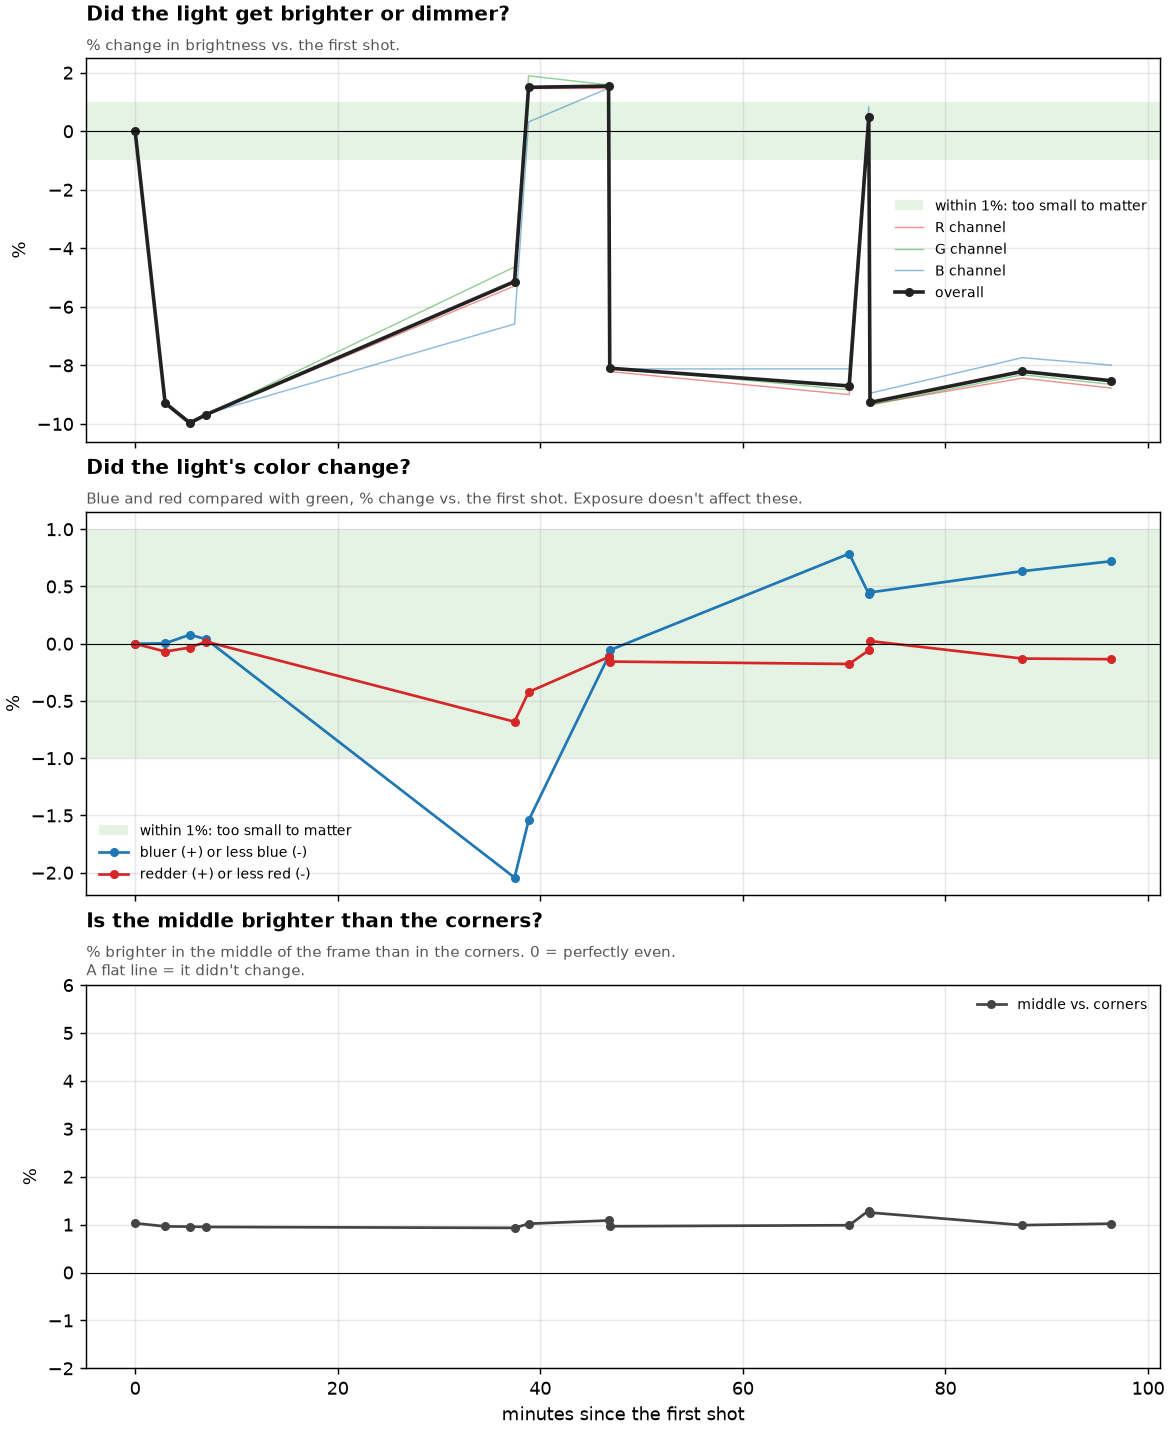
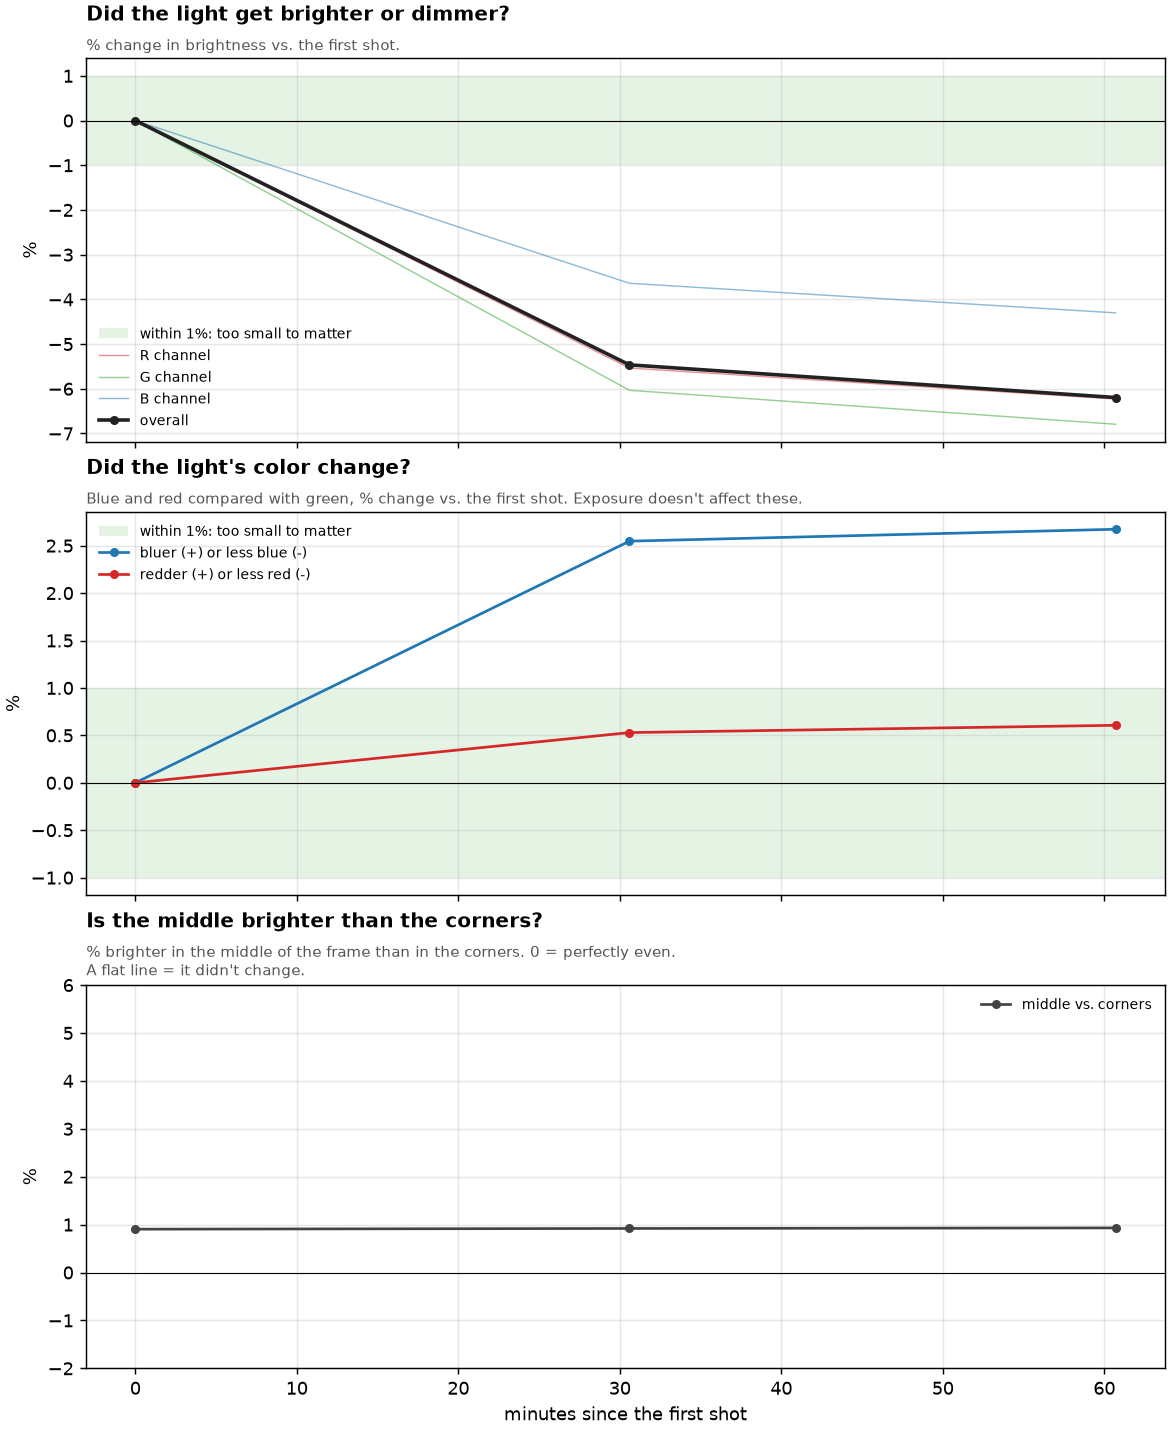
README: use the last-attempt warm-up session as the only example chart

diff --git a/README.md b/README.md
@@ -2,7 +2,7 @@
 
 A small toolkit that tells you if the light you scan film with is any good, using nothing but photos of it taken with your own camera.
 
-![Brightness, color and evenness of a light over 96 minutes](docs/over_time.png)
+![Brightness, color and evenness of a light over its first hour](docs/over_time.png)
 
 ## The idea, in plain words
 
@@ -63,23 +63,23 @@ Every run gets its own folder in `light_drift_results/` named after the date and
 
 ## What you get back
 
-A `report.txt` written in plain English, with the short answer at the top. Here's a real one, from a light tested with its charger in the mix:
+A `report.txt` written in plain English, with the short answer at the top. Here's a real one: three shots of a light, right after switching it on, then 30 minutes later, then an hour later.
 
 ```
 THE SHORT ANSWER
-  Brightness        CHANGED   Jumpy: it went up and down 6 times, between -10.0% and +1.5%.
-                              over_time.png shows when.
-  Color             CHANGED   At most 2.0% less blue than the first shot.
-  Evenness          OK        The middle is 1% brighter than the corners, and that didn't change.
+  Brightness        CHANGED   Got 5% dimmer by minute 31, then held steady (ended at -6.2%).
+  Color             CHANGED   At most 2.7% bluer than the first shot.
+  Evenness          OK        The middle and the corners are within 1% of each other, and that
+                              didn't change.
   Same settings     OK        Same shutter speed, aperture and ISO in every shot.
   Blown out         OK        Nothing blown out.
 
-  Bottom line: The light's brightness jumps around. Check what happened at those times (switched off
-  and on? charger plugged in?) in over_time.png. Its color shifts too, enough to tint scans
-  slightly.
+  Bottom line: Let the light warm up before scanning. It had settled by minute 31, the first shot
+  after the start, so it may need less. Shoot every minute or two at the start to find out. Its
+  color shifts too, enough to tint scans slightly.
 ```
 
-In plain words: the evenness was rock steady and the color only moved about 2%, but the brightness kept jumping by about 10%. That's enough to make two scans from the same roll look different. The chart at the top of this page is from that same session.
+In plain words: this light is perfectly even, but it's a bit like a car on a cold morning. For the first half hour it gets about 5% dimmer and a little bluer, then it settles down. So: switch it on, wait, then scan. The chart at the top of this page is from that same session.
 
 You also get charts:
 
@@ -91,8 +91,6 @@ You also get charts:
 | `color_shift.png` | First shot vs. last shot: where the color changed |
 | `previews.png` | Every shot, with the differences cranked up so you can see them |
 | `results.csv` | All the numbers, for your own spreadsheets |
-
-![Uniformity map: each patch of the frame compared with the average](docs/uniformity.png)
 
 ### What "good" looks like
 
@@ -126,13 +124,7 @@ Run it on **one roll at a time**. Different films have different shades of orang
 
 Here's a real example: a good scan and a bad scan from the same roll, shot 86 minutes apart. lightdrift found that the bad scan came out 1.5 stops darker than its camera settings explain, and the light shining through the sprocket holes was about 12% warmer. So the light itself changed, not the conversion. It also caught that the camera was on auto exposure (so each scan got a different exposure) and that there was room to expose brighter.
 
-This picture shows what it measured in each scan. Green is the clear film it used as a test patch, red is bare light through the sprocket holes, blue is the black holder.
-
-![What was measured in each film scan](docs/film_check.png)
-
-And `film_over_time.png` shows each check as a chart, with the normal range shaded green and anything outside it circled in red:
-
-![Film checks over time](docs/film_over_time.png)
+Film mode gives you `film_over_time.png` (each check as a chart, with the normal range shaded green and anything outside it circled in red) and `film_check.png` (what it measured in each scan: green is the clear film it used as a test patch, red is bare light through the sprocket holes, blue is the black holder).
 
 ## Options
 
@@ -207,7 +199,7 @@ All of these thresholds are named constants near the top of the film section in 
 light_drift.py      the whole toolkit, one file
 requirements.txt    numpy, rawpy, matplotlib, exifread
 captures/           put your raw files here, one subfolder per session (ignored by git)
-docs/               the example images in this README
+docs/               the example chart in this README
 ```
 
 ## License
